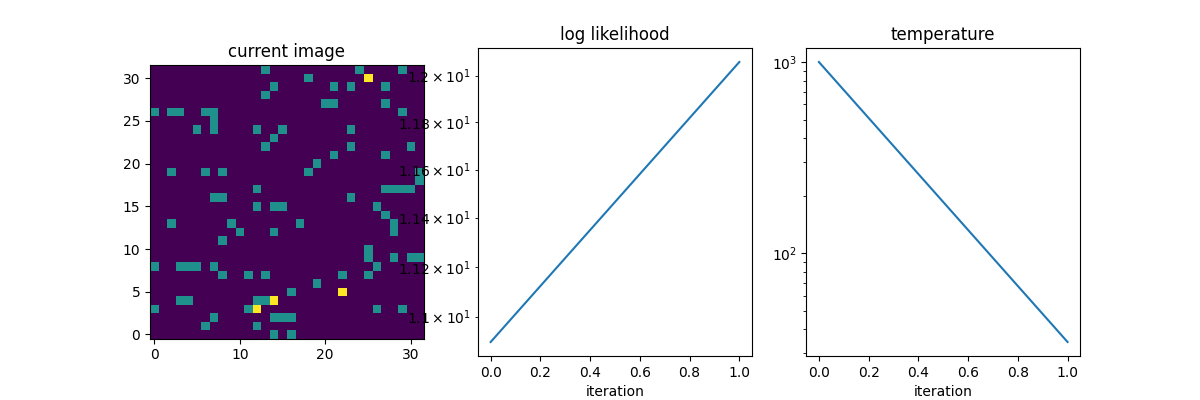
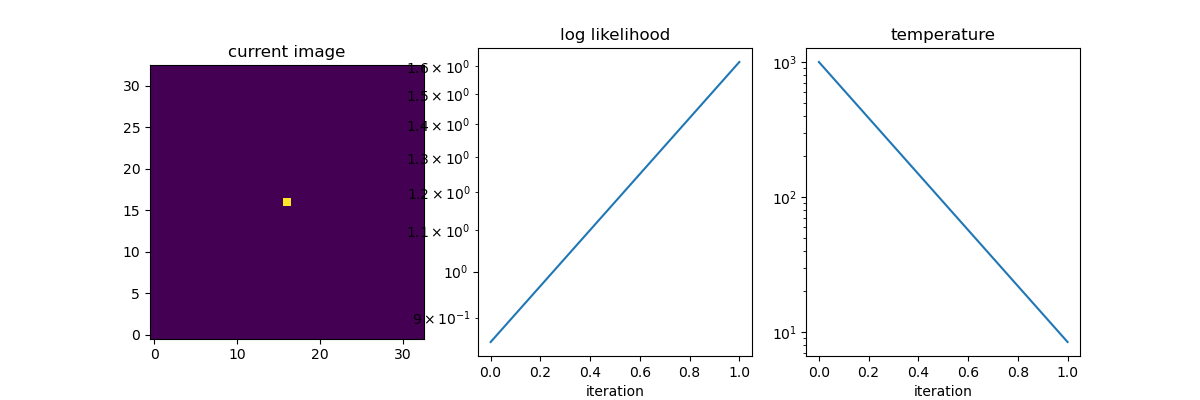
implemented fixed central fraction for image reconstruction

diff --git a/PLred/imgrecon.py b/PLred/imgrecon.py
@@ -121,7 +121,7 @@ class BaseImageReconstructor:
             
             return False, self.current_ll
         
-    def set_initial_state(self):
+    def set_initial_state(self, central_frac = None):
 
         if self.ini_method == 'random':
             # random locations
@@ -132,6 +132,12 @@ class BaseImageReconstructor:
         elif self.ini_method == 'center':
             self.locs = np.array([self.centerloc] * self.n_element)
 
+        if central_frac is not None:
+            self.central_frac = central_frac
+            self.n_fixed = int((self.n_element * central_frac)/ (1 - central_frac))
+            print("Fixing %d elements to the center. %d elements are free to move" % (self.n_fixed, self.n_element))
+            self.locs = list(np.concatenate([self.locs, [self.centerloc]*self.n_fixed]))
+        
         # compute vector from locs
         self.current_vec = self.compute_model_from_locs(self.locs)
         
@@ -151,6 +157,41 @@ class BaseImageReconstructor:
             self.central_fracs = []
         else:
             self.current_central_frac = None
+    
+    # def set_initial_state_central_frac(self, central_frac):
+
+    #     if self.ini_method == 'random':
+    #         # random locations
+    #         element_xs = np.random.choice(self.axis_len, size = self.n_element)
+    #         element_ys = np.random.choice(self.axis_len, size = self.n_element)
+    #         self.locs = self.axis_len * element_xs + element_ys
+        
+    #     elif self.ini_method == 'center':
+    #         self.locs = np.array([self.centerloc] * self.n_element)
+
+    #     self.n_fixed = int((self.n_element * central_frac)/ (1 - central_frac))
+    #     print("Fixing %d elements to the center. %d elements are free to move" % (self.n_fixed, self.n_element))
+    #     self.locs = list(np.concatenate([self.locs, [self.centerloc]*self.n_fixed]))
+        
+    #     # compute vector from locs
+    #     self.current_vec = self.compute_model_from_locs(self.locs)
+        
+    #     # compute initial log likelihood
+    #     self.current_ll = self.compute_ll(self.current_vec)
+
+    #     # initial temperature
+    #     self.temp = self.ini_temp
+
+    #     self.lls = [self.current_ll]
+    #     self.temps = [self.temp]
+    #     self.post_locs = np.array([], dtype=int)
+    #     self.all_post_locs = np.array([], dtype=int)
+
+    #     # if self.model_central_frac:
+    #     #     self.current_central_frac = 0.5
+    #     #     self.central_fracs = []
+    #     # else:
+    #     #     self.current_central_frac = None
 
     
     def compute_model_from_locs(self, locs, normalize = True):
@@ -258,9 +299,41 @@ class BaseImageReconstructor:
         else:
             # logging.info(f"Move rejected in element {ni}")
             self.current_ll = self.current_ll
-        
+    
+    # def run_chain_with_central_frac(self, niter, central_frac, plot_every = 100):
 
-    def run_chain(self, niter, plot_every = 100):
+    #     self.niter = niter
+
+    #     self.set_initial_state_central_frac(central_frac)
+    #     self.central_frac = central_frac
+
+    #     for iter in tqdm(range(self.niter)):
+            
+    #         # attempt flux element move
+    #         for ni in range(self.n_element):
+
+    #             self.move_element(ni)
+                
+
+    #         # store the results
+    #         self.lls.append(self.current_ll)
+    #         self.temps.append(self.temp)
+    #         self.post_locs = np.concatenate((self.post_locs, self.locs))
+            
+    #         if iter > self.burn_in_iter:
+    #             self.all_post_locs = np.concatenate((self.all_post_locs, self.locs))
+
+    #         if iter % plot_every == 0:
+    #             self.plot_current_state()
+
+    #     # compute final recovered parameters
+    #     self.final_image = locs2image(self.all_post_locs, self.axis_len)
+    #     self.final_vec = (self.matrix @ self.final_image.flatten()) / len(self.all_post_locs)
+    #     self.plot_final_state(self.final_image)
+
+    #     print("Done")
+
+    def run_chain(self, niter, central_frac = None, plot_every = 100):
         '''
         Run the MCMC chain
         
@@ -269,7 +342,7 @@ class BaseImageReconstructor:
         '''
         self.niter = niter
 
-        self.set_initial_state()
+        self.set_initial_state(central_frac=central_frac)
 
         for iter in tqdm(range(self.niter)):
             

diff --git a/PLred/fit.py b/PLred/fit.py
@@ -108,7 +108,7 @@ class PLMapFit:
         self.n_elemenet = n_elemenet
         self.target_chi2 = target_chi2
 
-    def run(self, niter = 500, burn_in_iter=100, seed=12345, plot_every = 500,
+    def run(self, centerfrac = None, niter = 500, burn_in_iter=100, seed=12345, plot_every = 500,
             prior_type = 'circle', **kwargs):
 
 
@@ -126,9 +126,16 @@ class PLMapFit:
                                             
                                                 )
 
-        self.rc.make_prior(prior_type, **kwargs)
-        self.rc.run_chain(niter, plot_every = plot_every)
 
+        self.rc.make_prior(prior_type, **kwargs)
+
+        # if centerfrac is None:
+        #     self.rc.run_chain(niter, plot_every = plot_every)
+        # else:
+        #     self.rc.run_chain_with_central_frac(niter, centerfrac, plot_every = plot_every)
+
+        self.rc.run_chain(niter, central_frac=centerfrac, plot_every = plot_every)
+        
         print("Final chi2", self.rc.current_ll*2)
         return self.rc
 
